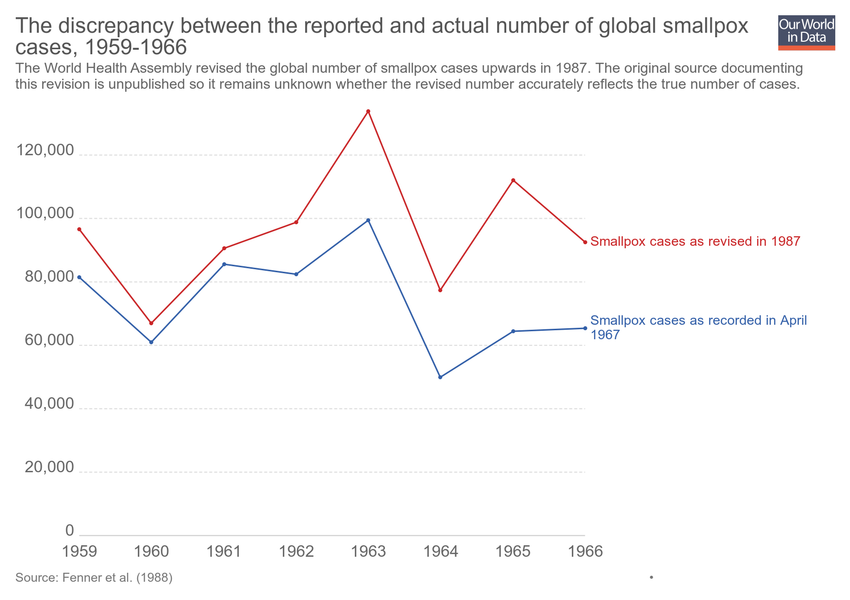
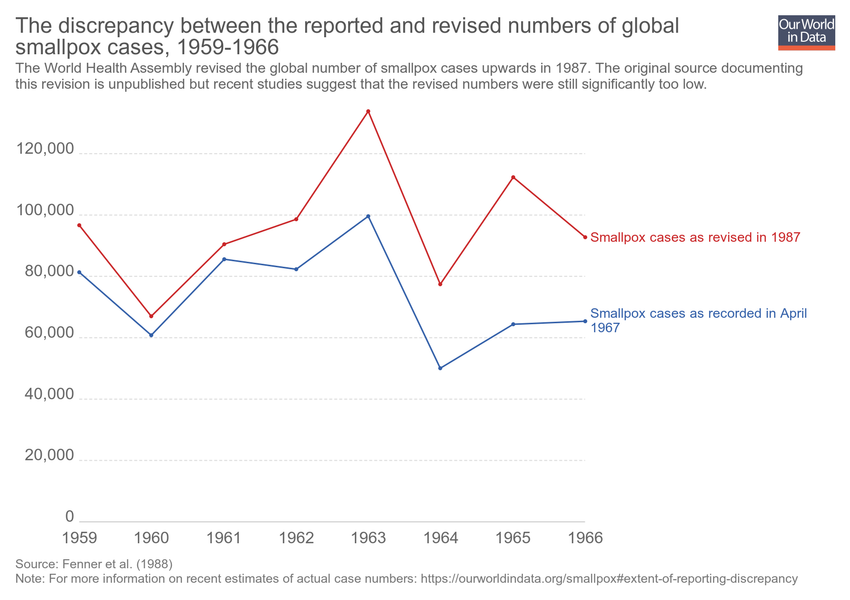
Updating chart the-discrepancy-between-the-reported-and-actual-number-of-global-smallpox-cases

diff --git a/grapher/the-discrepancy-between-the-reported-and-actual-number-of-global-smallpox-cases.html b/grapher/the-discrepancy-between-the-reported-and-actual-number-of-global-smallpox-cases.html
@@ -1,4 +1,4 @@
-<!doctype html><html><head><meta name="viewport" content="width=device-width, initial-scale=1" /><title>The discrepancy between the reported and actual number of global smallpox cases, 1959-1966 - Our World in Data</title><meta name="description" content="The World Health Assembly revised the global number of smallpox cases upwards in 1987. The original source documenting this revision is unpublished so it remains unknown whether the revised number accurately reflects the true number of cases." /><link rel="canonical" href="https://ourworldindata.org/grapher/the-discrepancy-between-the-reported-and-actual-number-of-global-smallpox-cases" /><meta property="fb:app_id" content="1149943818390250" /><meta property="og:url" content="https://ourworldindata.org/grapher/the-discrepancy-between-the-reported-and-actual-number-of-global-smallpox-cases" /><meta property="og:title" content="The discrepancy between the reported and actual number of global smallpox cases, 1959-1966" /><meta property="og:description" content="The World Health Assembly revised the global number of smallpox cases upwards in 1987. The original source documenting this revision is unpublished so it remains unknown whether the revised number accurately reflects the true number of cases." /><meta property="og:image" content="https://ourworldindata.org/grapher/exports/the-discrepancy-between-the-reported-and-actual-number-of-global-smallpox-cases.png?v=1" /><meta property="og:image:width" content="850" /><meta property="og:image:height" content="600" /><meta property="og:site_name" content="Our World in Data" /><meta name="twitter:card" content="summary_large_image" /><meta name="twitter:site" content="@OurWorldInData" /><meta name="twitter:creator" content="@OurWorldInData" /><meta name="twitter:title" content="The discrepancy between the reported and actual number of global smallpox cases, 1959-1966" /><meta name="twitter:description" content="The World Health Assembly revised the global number of smallpox cases upwards in 1987. The original source documenting this revision is unpublished so it remains unknown whether the revised number accurately reflects the true number of cases." /><meta name="twitter:image" content="https://ourworldindata.org/grapher/exports/the-discrepancy-between-the-reported-and-actual-number-of-global-smallpox-cases.png?v=1" /><style>
+<!doctype html><html><head><meta name="viewport" content="width=device-width, initial-scale=1" /><title>The discrepancy between the reported and revised numbers of global smallpox cases, 1959-1966 - Our World in Data</title><meta name="description" content="The World Health Assembly revised the global number of smallpox cases upwards in 1987. The original source documenting this revision is unpublished but recent studies suggest that the revised numbers were still significantly too low. " /><link rel="canonical" href="https://ourworldindata.org/grapher/the-discrepancy-between-the-reported-and-actual-number-of-global-smallpox-cases" /><meta property="fb:app_id" content="1149943818390250" /><meta property="og:url" content="https://ourworldindata.org/grapher/the-discrepancy-between-the-reported-and-actual-number-of-global-smallpox-cases" /><meta property="og:title" content="The discrepancy between the reported and revised numbers of global smallpox cases, 1959-1966" /><meta property="og:description" content="The World Health Assembly revised the global number of smallpox cases upwards in 1987. The original source documenting this revision is unpublished but recent studies suggest that the revised numbers were still significantly too low. " /><meta property="og:image" content="https://ourworldindata.org/grapher/exports/the-discrepancy-between-the-reported-and-actual-number-of-global-smallpox-cases.png?v=2" /><meta property="og:image:width" content="850" /><meta property="og:image:height" content="600" /><meta property="og:site_name" content="Our World in Data" /><meta name="twitter:card" content="summary_large_image" /><meta name="twitter:site" content="@OurWorldInData" /><meta name="twitter:creator" content="@OurWorldInData" /><meta name="twitter:title" content="The discrepancy between the reported and revised numbers of global smallpox cases, 1959-1966" /><meta name="twitter:description" content="The World Health Assembly revised the global number of smallpox cases upwards in 1987. The original source documenting this revision is unpublished but recent studies suggest that the revised numbers were still significantly too low. " /><meta name="twitter:image" content="https://ourworldindata.org/grapher/exports/the-discrepancy-between-the-reported-and-actual-number-of-global-smallpox-cases.png?v=2" /><style>
         html, body {
             height: 100%;
             margin: 0;
@@ -20,8 +20,8 @@
         }
     </style><noscript><style>
                     figure { display: none !important; }
-                </style></noscript><link rel="stylesheet" href="https://ourworldindata.org/grapher/assets/commons.bundle.397229a8467cf53bfc99.css" /><link rel="preload" href="/grapher/data/variables/97489+97490.json?v=1" as="fetch" crossorigin /></head><body class="singleChart"><figure data-grapher-src="/grapher/the-discrepancy-between-the-reported-and-actual-number-of-global-smallpox-cases"></figure><noscript id="fallback"><img src="/grapher/exports/the-discrepancy-between-the-reported-and-actual-number-of-global-smallpox-cases.svg" /><p>Interactive visualization requires JavaScript</p></noscript><script src="https://cdn.polyfill.io/v2/polyfill.min.js?features=es6,fetch"></script><script src="https://ourworldindata.org/grapher/assets/commons.bundle.397229a8467cf53bfc99.js"></script><script src="https://ourworldindata.org/grapher/assets/charts.bundle.397229a8467cf53bfc99.js"></script><script>
-        var jsonConfig = {"map":{"projection":"World","colorSchemeLabels":[],"colorSchemeValues":[],"customNumericColors":[],"customCategoryColors":{},"customCategoryLabels":{},"customHiddenCategories":{}},"tab":"chart","slug":"the-discrepancy-between-the-reported-and-actual-number-of-global-smallpox-cases","type":"LineChart","title":"The discrepancy between the reported and actual number of global smallpox cases, 1959-1966","xAxis":{"scaleType":"linear"},"yAxis":{"min":0,"scaleType":"linear"},"version":1,"subtitle":"The World Health Assembly revised the global number of smallpox cases upwards in 1987. The original source documenting this revision is unpublished so it remains unknown whether the revised number accurately reflects the true number of cases.","hasMapTab":false,"stackMode":"absolute","dimensions":[{"display":{"unit":"cases"},"property":"y","variableId":97489},{"display":{"unit":"cases"},"property":"y","variableId":97490}],"hasChartTab":true,"isPublished":true,"selectedData":[{"index":0,"entityId":355},{"index":1,"entityId":355}],"addCountryMode":"disabled","hideTitleAnnotation":true,"id":2703};
+                </style></noscript><link rel="stylesheet" href="https://ourworldindata.org/grapher/assets/commons.bundle.397229a8467cf53bfc99.css" /><link rel="preload" href="/grapher/data/variables/97489+97490.json?v=2" as="fetch" crossorigin /></head><body class="singleChart"><figure data-grapher-src="/grapher/the-discrepancy-between-the-reported-and-actual-number-of-global-smallpox-cases"></figure><noscript id="fallback"><img src="/grapher/exports/the-discrepancy-between-the-reported-and-actual-number-of-global-smallpox-cases.svg" /><p>Interactive visualization requires JavaScript</p></noscript><script src="https://cdn.polyfill.io/v2/polyfill.min.js?features=es6,fetch"></script><script src="https://ourworldindata.org/grapher/assets/commons.bundle.397229a8467cf53bfc99.js"></script><script src="https://ourworldindata.org/grapher/assets/charts.bundle.397229a8467cf53bfc99.js"></script><script>
+        var jsonConfig = {"id":2703,"map":{"projection":"World","colorSchemeLabels":[],"colorSchemeValues":[],"customNumericColors":[],"customCategoryColors":{},"customCategoryLabels":{},"customHiddenCategories":{}},"tab":"chart","note":"For more information on recent estimates of actual case numbers: https://ourworldindata.org/smallpox#extent-of-reporting-discrepancy","slug":"the-discrepancy-between-the-reported-and-actual-number-of-global-smallpox-cases","type":"LineChart","title":"The discrepancy between the reported and revised numbers of global smallpox cases, 1959-1966","xAxis":{"scaleType":"linear"},"yAxis":{"min":0,"scaleType":"linear"},"version":2,"subtitle":"The World Health Assembly revised the global number of smallpox cases upwards in 1987. The original source documenting this revision is unpublished but recent studies suggest that the revised numbers were still significantly too low. ","hasMapTab":false,"stackMode":"absolute","dimensions":[{"display":{"unit":"cases"},"property":"y","variableId":97489},{"display":{"unit":"cases"},"property":"y","variableId":97490}],"hasChartTab":true,"isPublished":true,"selectedData":[{"index":0,"entityId":355},{"index":1,"entityId":355}],"addCountryMode":"disabled","hideTitleAnnotation":true};
         var figure = document.getElementsByTagName("figure")[0];
         try {
             window.App = {};
